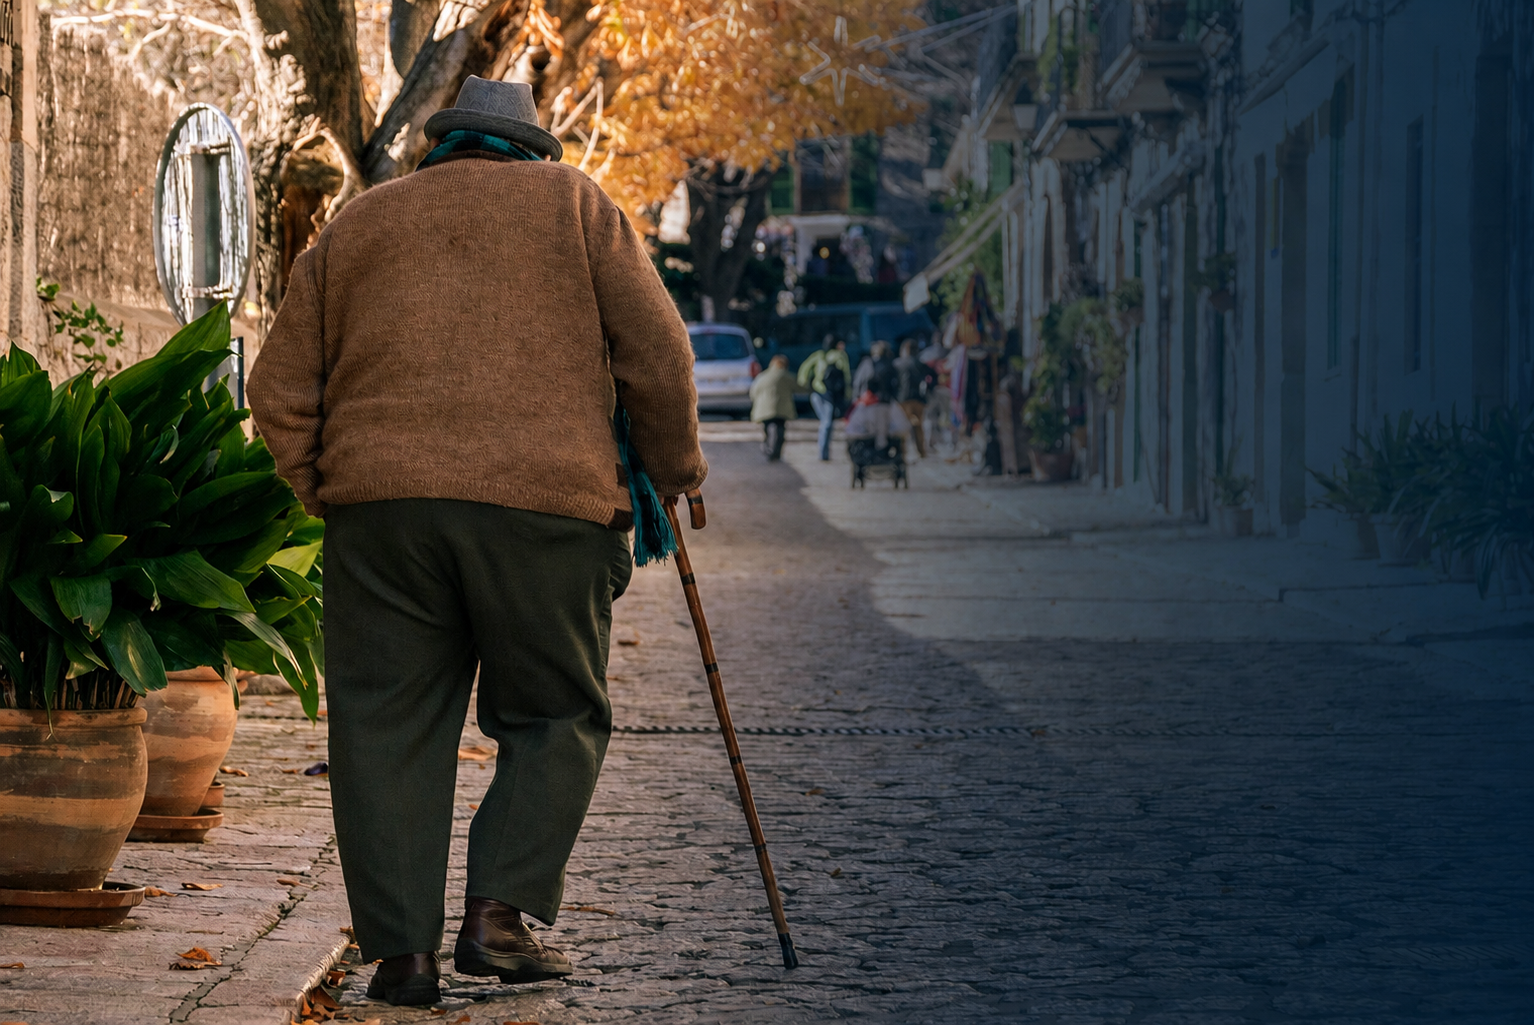
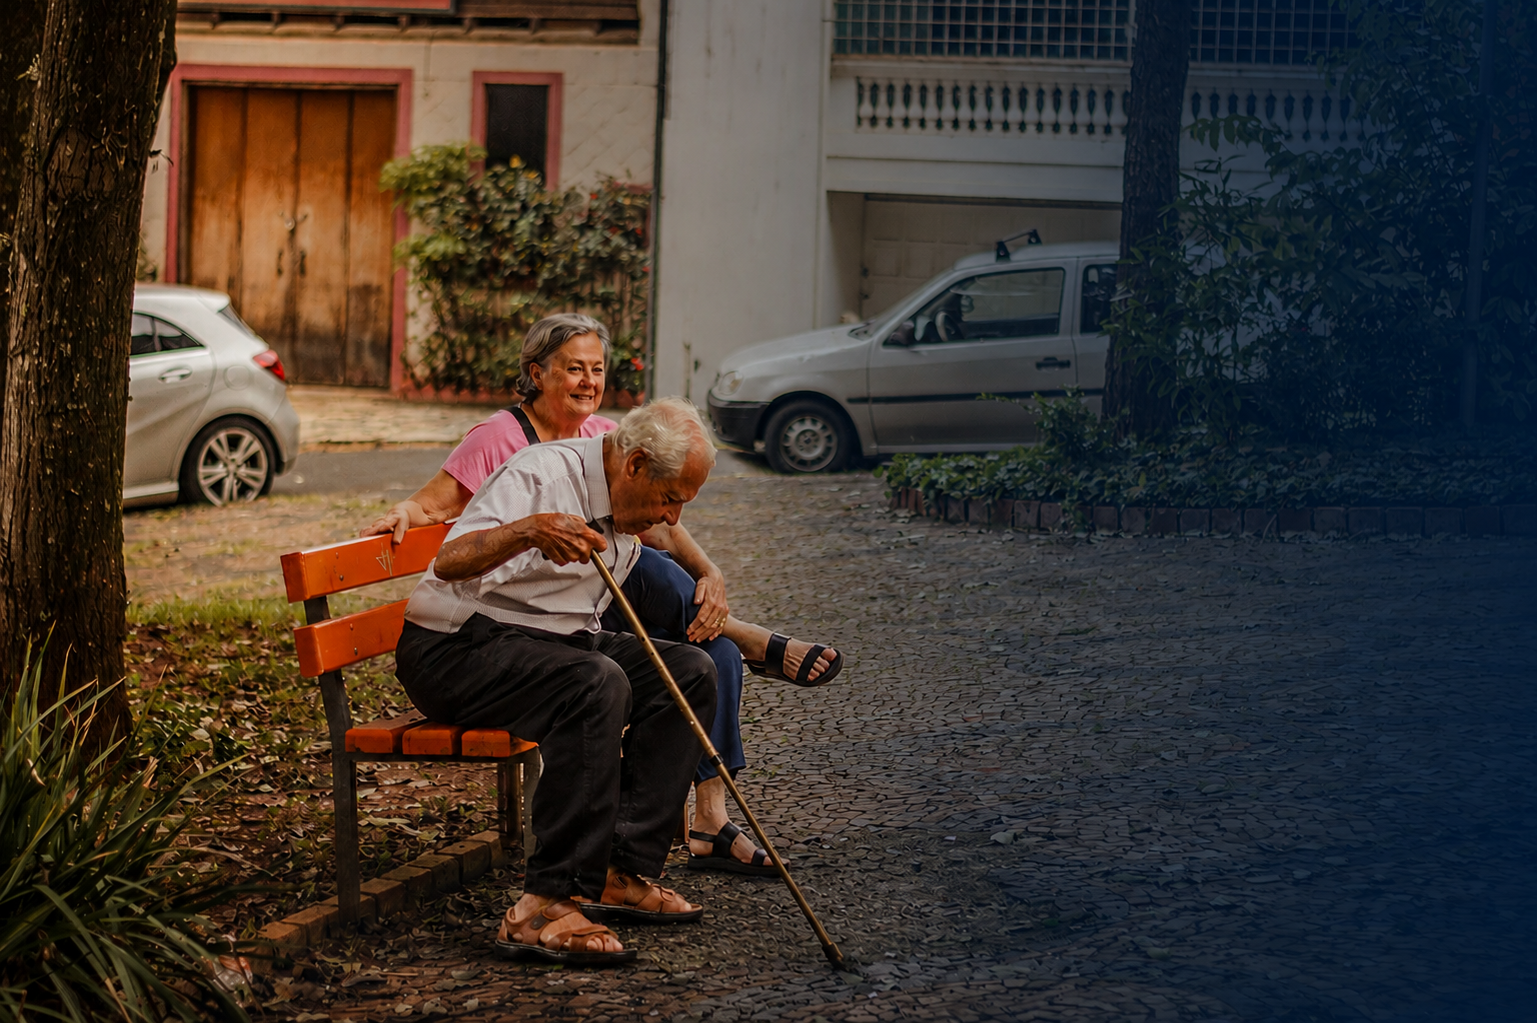
fix : mudanca no hero + outros assets

diff --git a/src/components/sections/consultoria/ConsultoriaHero.tsx b/src/components/sections/consultoria/ConsultoriaHero.tsx
@@ -1,54 +1,11 @@
 import { useEffect, useRef } from 'react';
 import gsap from 'gsap';
 import { ScrollTrigger } from 'gsap/ScrollTrigger';
-import { ArrowRight, Users, Award, BookOpen, Network } from 'lucide-react';
+import { ArrowRight } from 'lucide-react';
 import Button from '../../ui/Button';
 import SectionLabel from '../../ui/SectionLabel';
 import { wrapWordsPreservingMarkup } from '../../../utils/wrapWords';
-
-interface FloatingBubble {
-  Icon: typeof Users;
-  size: number; // diameter in px
-  position: string; // tailwind absolute classes for position
-  tone: 'blue' | 'green';
-  delay: number;
-  iconSize: number;
-}
-
-const bubbles: FloatingBubble[] = [
-  {
-    Icon: Users,
-    size: 96,
-    position: 'top-[6%] right-[12%]',
-    tone: 'blue',
-    delay: 0,
-    iconSize: 36,
-  },
-  {
-    Icon: Award,
-    size: 72,
-    position: 'top-[34%] right-[42%]',
-    tone: 'green',
-    delay: 0.4,
-    iconSize: 28,
-  },
-  {
-    Icon: BookOpen,
-    size: 80,
-    position: 'bottom-[14%] right-[8%]',
-    tone: 'blue',
-    delay: 0.8,
-    iconSize: 30,
-  },
-  {
-    Icon: Network,
-    size: 64,
-    position: 'bottom-[40%] right-[60%]',
-    tone: 'green',
-    delay: 1.2,
-    iconSize: 24,
-  },
-];
+import consultaImg from '../../../assets/consulta.svg';
 
 export default function ConsultoriaHero() {
   const sectionRef = useRef<HTMLElement | null>(null);
@@ -80,10 +37,7 @@ export default function ConsultoriaHero() {
       gsap.set(ctaRef.current?.children ?? [], { scale: 0.8, autoAlpha: 0 });
       gsap.set(blobBlueRef.current, { autoAlpha: 0, scale: 0.85 });
       gsap.set(blobGreenRef.current, { autoAlpha: 0, scale: 0.85 });
-      const bubbleEls = Array.from(
-        visualRef.current?.querySelectorAll('[data-bubble]') ?? [],
-      );
-      gsap.set(bubbleEls, { scale: 0.6, autoAlpha: 0 });
+      gsap.set(visualRef.current, { x: 100, autoAlpha: 0 });
 
       const tl = gsap.timeline({ defaults: { ease: 'power3.out' } });
       tl.to(overlayRef.current, {
@@ -98,14 +52,8 @@ export default function ConsultoriaHero() {
         )
         .to(labelRef.current, { y: 0, autoAlpha: 1, duration: 0.8 }, 0.3)
         .to(
-          bubbleEls,
-          {
-            scale: 1,
-            autoAlpha: 1,
-            duration: 0.9,
-            stagger: 0.12,
-            ease: 'expo.out',
-          },
+          visualRef.current,
+          { x: 0, autoAlpha: 1, duration: 1.2, ease: 'expo.out' },
           0.8,
         )
         .to(
@@ -131,18 +79,6 @@ export default function ConsultoriaHero() {
           },
           1.4,
         );
-
-      // Floating loop on bubbles — each card with its own delay
-      bubbleEls.forEach((el, i) => {
-        gsap.to(el, {
-          y: -8,
-          duration: 3,
-          yoyo: true,
-          repeat: -1,
-          ease: 'sine.inOut',
-          delay: bubbles[i]?.delay ?? 0,
-        });
-      });
 
       if (!isMobile) {
         gsap.to(blobBlueRef.current, {
@@ -220,6 +156,17 @@ export default function ConsultoriaHero() {
       />
 
       <div className="container-x relative">
+        {/* Mobile illustration */}
+        <div className="md:hidden flex justify-center mb-6">
+          <img
+            src={consultaImg}
+            alt=""
+            aria-hidden="true"
+            className="w-56 h-auto"
+            loading="eager"
+          />
+        </div>
+
         <div className="grid lg:grid-cols-12 gap-10 lg:gap-16 items-center min-h-[520px]">
           {/* Text column */}
           <div className="lg:col-span-7">
@@ -267,45 +214,22 @@ export default function ConsultoriaHero() {
             </div>
           </div>
 
-          {/* Decorative floating bubbles */}
+          {/* SVG illustration column */}
           <div
-            className="lg:col-span-5 relative hidden md:block"
+            className="lg:col-span-5 hidden md:flex items-center justify-center"
             aria-hidden="true"
           >
             <div
               ref={visualRef}
-              className="relative mx-auto w-full max-w-[480px] aspect-square"
+              className="will-change-transform w-full flex items-center justify-center"
             >
-              {bubbles.map(({ Icon, size, position, tone, iconSize }, i) => {
-                const toneStyle: React.CSSProperties =
-                  tone === 'blue'
-                    ? {
-                        backgroundColor: 'rgba(12,74,140,0.06)',
-                        border: '1px solid rgba(12,74,140,0.10)',
-                        color: '#0C4A8C',
-                        boxShadow: '0 8px 24px rgba(12,74,140,0.10)',
-                      }
-                    : {
-                        backgroundColor: 'rgba(26,122,94,0.06)',
-                        border: '1px solid rgba(26,122,94,0.12)',
-                        color: '#1A7A5E',
-                        boxShadow: '0 8px 24px rgba(26,122,94,0.10)',
-                      };
-                return (
-                  <div
-                    key={i}
-                    data-bubble
-                    className={`absolute rounded-full flex items-center justify-center will-change-transform ${position}`}
-                    style={{
-                      width: `${size}px`,
-                      height: `${size}px`,
-                      ...toneStyle,
-                    }}
-                  >
-                    <Icon size={iconSize} aria-hidden="true" />
-                  </div>
-                );
-              })}
+              <img
+                src={consultaImg}
+                alt=""
+                aria-hidden="true"
+                className="w-full max-w-[480px] h-auto"
+                loading="eager"
+              />
             </div>
           </div>
         </div>

diff --git a/src/components/sections/cidade-amiga/CidadeAmigaHero.tsx b/src/components/sections/cidade-amiga/CidadeAmigaHero.tsx
@@ -1,19 +1,11 @@
 import { useEffect, useRef } from 'react';
 import gsap from 'gsap';
 import { ScrollTrigger } from 'gsap/ScrollTrigger';
-import {
-  ArrowRight,
-  ArrowUpRight,
-  Globe,
-  Heart,
-  Users,
-  Building2,
-  Bus,
-  Home as HomeIcon,
-} from 'lucide-react';
+import { ArrowRight, ArrowUpRight } from 'lucide-react';
 import Button from '../../ui/Button';
 import SectionLabel from '../../ui/SectionLabel';
 import { wrapWordsPreservingMarkup } from '../../../utils/wrapWords';
+import cidadeAmigaImg from '../../../assets/cidadeAmiga.svg';
 
 export default function CidadeAmigaHero() {
   const sectionRef = useRef<HTMLElement | null>(null);
@@ -171,6 +163,17 @@ export default function CidadeAmigaHero() {
       />
 
       <div className="container-x relative">
+        {/* Mobile illustration */}
+        <div className="md:hidden flex justify-center mb-6">
+          <img
+            src={cidadeAmigaImg}
+            alt=""
+            aria-hidden="true"
+            className="w-56 h-auto"
+            loading="eager"
+          />
+        </div>
+
         <div className="grid lg:grid-cols-12 gap-10 lg:gap-16 items-center min-h-[520px]">
           {/* Text column */}
           <div className="lg:col-span-7">
@@ -228,81 +231,22 @@ export default function CidadeAmigaHero() {
             </div>
           </div>
 
-          {/* Decorative icon composition column */}
+          {/* SVG illustration column */}
           <div
-            className="lg:col-span-5 relative hidden md:block"
+            className="lg:col-span-5 hidden md:flex items-center justify-center"
             aria-hidden="true"
           >
             <div
               ref={visualRef}
-              className="relative mx-auto w-full max-w-[480px] aspect-square"
+              className="will-change-transform w-full flex items-center justify-center"
             >
-              {/* Center large card */}
-              <div
-                className="absolute left-1/2 top-1/2 -translate-x-1/2 -translate-y-1/2 w-28 h-28 lg:w-32 lg:h-32 rounded-full flex items-center justify-center"
-                style={{
-                  background:
-                    'linear-gradient(135deg, rgba(12,74,140,0.10), rgba(26,122,94,0.10))',
-                  border: '1px solid rgba(12,74,140,0.18)',
-                  boxShadow: '0 8px 32px rgba(12,74,140,0.10)',
-                }}
-              >
-                <Globe size={48} className="text-blue-deep" />
-              </div>
-
-              {/* Top */}
-              <IconBubble
-                className="left-1/2 top-[6%] -translate-x-1/2"
-                size="md"
-                tone="green"
-              >
-                <Heart size={26} />
-              </IconBubble>
-
-              {/* Right */}
-              <IconBubble
-                className="right-[4%] top-[28%]"
-                size="lg"
-                tone="blue"
-              >
-                <Users size={32} />
-              </IconBubble>
-
-              {/* Bottom right */}
-              <IconBubble
-                className="right-[10%] bottom-[10%]"
-                size="sm"
-                tone="green"
-              >
-                <Bus size={22} />
-              </IconBubble>
-
-              {/* Bottom */}
-              <IconBubble
-                className="left-1/2 bottom-[4%] -translate-x-1/2"
-                size="md"
-                tone="blue"
-              >
-                <Building2 size={26} />
-              </IconBubble>
-
-              {/* Bottom left */}
-              <IconBubble
-                className="left-[8%] bottom-[18%]"
-                size="lg"
-                tone="green"
-              >
-                <HomeIcon size={30} />
-              </IconBubble>
-
-              {/* Left */}
-              <IconBubble
-                className="left-[4%] top-[30%]"
-                size="sm"
-                tone="blue"
-              >
-                <Globe size={20} />
-              </IconBubble>
+              <img
+                src={cidadeAmigaImg}
+                alt=""
+                aria-hidden="true"
+                className="w-full max-w-[480px] h-auto"
+                loading="eager"
+              />
             </div>
           </div>
         </div>
@@ -311,46 +255,3 @@ export default function CidadeAmigaHero() {
   );
 }
 
-type BubbleTone = 'blue' | 'green';
-type BubbleSize = 'sm' | 'md' | 'lg';
-
-interface BubbleProps {
-  className?: string;
-  tone: BubbleTone;
-  size: BubbleSize;
-  children: React.ReactNode;
-}
-
-function IconBubble({ className = '', tone, size, children }: BubbleProps) {
-  const dims = {
-    sm: 'w-14 h-14',
-    md: 'w-16 h-16',
-    lg: 'w-20 h-20',
-  }[size];
-  const toneStyle: React.CSSProperties =
-    tone === 'blue'
-      ? {
-          backgroundColor: 'rgba(12,74,140,0.08)',
-          border: '1px solid rgba(12,74,140,0.12)',
-          color: '#0C4A8C',
-        }
-      : {
-          backgroundColor: 'rgba(26,122,94,0.08)',
-          border: '1px solid rgba(26,122,94,0.14)',
-          color: '#1A7A5E',
-        };
-  return (
-    <div
-      className={`absolute ${dims} rounded-full flex items-center justify-center ${className}`}
-      style={{
-        ...toneStyle,
-        boxShadow:
-          tone === 'blue'
-            ? '0 4px 16px rgba(12,74,140,0.10)'
-            : '0 4px 16px rgba(26,122,94,0.10)',
-      }}
-    >
-      {children}
-    </div>
-  );
-}

diff --git a/src/components/sections/Hero.tsx b/src/components/sections/Hero.tsx
@@ -112,11 +112,10 @@ export default function Hero() {
       id="hero"
       ref={sectionRef}
       aria-labelledby="hero-heading"
-      className="relative min-h-screen flex items-center overflow-hidden"
+      className="relative min-h-screen flex items-center overflow-hidden [background-position:30%_center] md:[background-position:center_center]"
       style={{
         backgroundImage: `url(${heroImage})`,
         backgroundSize: 'cover',
-        backgroundPosition: 'center',
         backgroundRepeat: 'no-repeat',
       }}
     >

diff --git a/src/components/layout/Header.tsx b/src/components/layout/Header.tsx
@@ -82,7 +82,7 @@ export default function Header() {
       ref={headerRef}
       className="fixed top-0 left-0 right-0 w-full z-50"
       style={{
-        background: scrolled ? "rgba(255,255,255,0.92)" : "rgba(0,0,0,0.50)",
+        background: scrolled ? "rgba(255,255,255,0.92)" : "rgba(0,0,0,0.20)",
         backdropFilter: scrolled ? "blur(12px)" : "none",
         WebkitBackdropFilter: scrolled ? "blur(12px)" : "none",
         borderBottom: scrolled

diff --git a/src/vite-env.d.ts b/src/vite-env.d.ts
@@ -19,3 +19,8 @@ declare module '*.png' {
   const src: string
   export default src
 }
+
+declare module '*.svg' {
+  const src: string
+  export default src
+}
